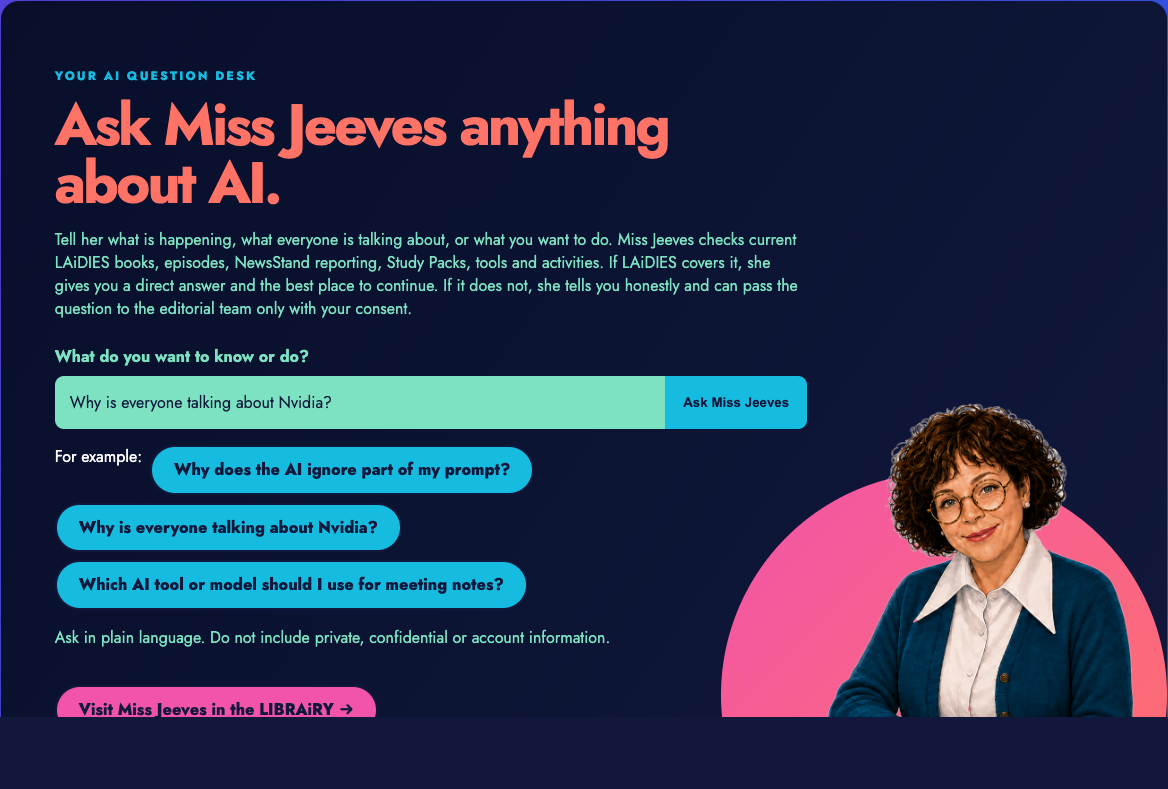
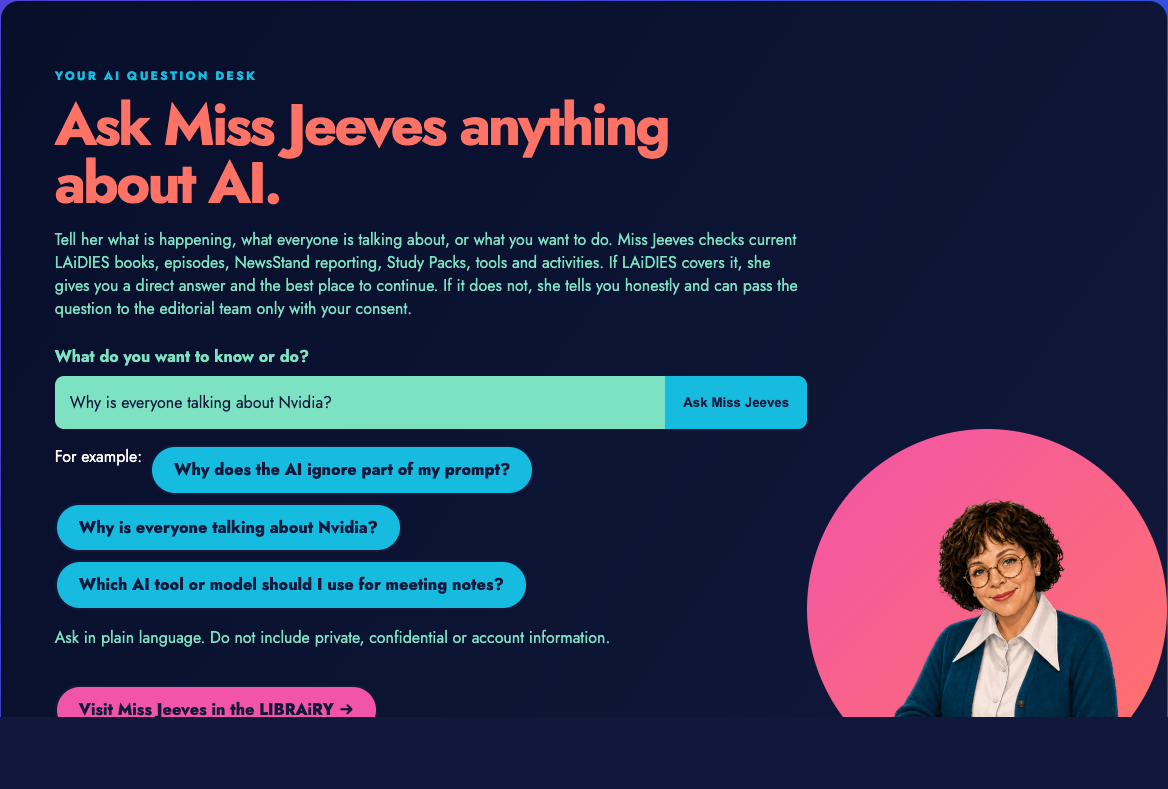
Refine and anchor Homepage Miss Jeeves cutout

Changed region(s): [[0.6164, 0.5171, 1.0, 0.9125]]

diff --git a/index.html b/index.html
@@ -840,11 +840,11 @@ main :is(.weekly,.activities,.town)>.section-heading>p:not(.eyebrow),.intent>div
 .postcard-band .eyebrow{color:var(--hp-orange)}
 .postcard-band h2{color:var(--hp-lime)}
 .reference.reference-inline{scroll-margin-top:88px;background:linear-gradient(125deg,var(--hp-midnight),var(--hp-ink))}
-.reference.reference-inline{position:relative;isolation:isolate}
-.reference.reference-inline::after{content:"";position:absolute;z-index:0;right:0;bottom:clamp(-150px,-9vw,-90px);width:clamp(330px,31vw,450px);aspect-ratio:1;border-radius:50%;background:linear-gradient(135deg,var(--hp-pink),var(--hp-coral));pointer-events:none}
+.reference.reference-inline{position:relative;isolation:isolate;overflow:visible}
+.reference.reference-inline::after{content:"";position:absolute;z-index:0;right:0;bottom:0;width:clamp(300px,27vw,360px);aspect-ratio:1;border-radius:50%;background:linear-gradient(135deg,var(--hp-pink),var(--hp-coral));pointer-events:none}
 .reference-inline>div{position:relative;z-index:2;padding-right:clamp(270px,25vw,360px)}
-.reference-inline>.jeeves-corner-cutout{position:absolute;z-index:1;display:block;right:clamp(8px,2vw,28px);bottom:0;width:clamp(220px,22vw,320px);height:auto;min-height:0;max-height:82%;object-fit:contain;object-position:right bottom;pointer-events:none;user-select:none}
-@media(max-width:760px){.reference-inline>div{padding-right:20px;padding-bottom:clamp(230px,76vw,330px)}.reference.reference-inline::after{right:0;bottom:-105px;width:clamp(280px,92vw,355px)}.reference-inline>.jeeves-corner-cutout{right:8px;width:clamp(190px,62vw,270px);height:auto;min-height:0;max-height:none}}
+.reference-inline>.jeeves-corner-cutout{position:absolute;z-index:1;display:block;right:clamp(8px,2vw,28px);bottom:-18px;width:clamp(190px,19vw,270px);height:auto;min-height:0;max-height:78%;object-fit:contain;object-position:right bottom;pointer-events:none;user-select:none}
+@media(max-width:760px){.reference-inline>div{padding-right:20px;padding-bottom:clamp(205px,66vw,280px)}.reference.reference-inline::after{right:0;bottom:0;width:clamp(250px,80vw,310px)}.reference-inline>.jeeves-corner-cutout{right:8px;bottom:-14px;width:clamp(165px,54vw,220px);height:auto;min-height:0;max-height:none}}
 .why-laidies{background:transparent;border-top:0}
 .why-women,.explainer,.intent,.weekly,.activities,.town,.closet,.postcard-band{position:relative;isolation:isolate}
 .why-women::before,.explainer::before,.intent::before,.weekly::before,.activities::before,.town::before,.closet::before,.postcard-band::before{content:"";position:absolute;inset:0;z-index:-1;pointer-events:none;border-radius:inherit;background:url('assets/homepage/pattern-purple-computing.png') top left/640px auto repeat;filter:grayscale(1) brightness(1.235) contrast(1.4);mix-blend-mode:multiply;opacity:.12}
@@ -1328,7 +1328,7 @@ main .explainer .method-intro-action:not(.inline-link):focus-visible{outline:3px
       </div>
       <section id="reference" class="reference reference-inline" aria-labelledby="jeeves-title">
         <div><p class="eyebrow">Your AI question desk</p><h2 id="jeeves-title">Ask Miss Jeeves anything about AI.</h2><p>Tell her what is happening, what everyone is talking about, or what you want to do. Miss Jeeves checks current LAiDIES books, episodes, NewsStand reporting, Study Packs, tools and activities. If LAiDIES covers it, she gives you a direct answer and the best place to continue. If it does not, she tells you honestly and can pass the question to the editorial team only with your consent.</p><form id="homepage-jeeves-form"><label for="lookup">What do you want to know or do?</label><div><input id="lookup" maxlength="240" autocomplete="off" placeholder="Why is everyone talking about Nvidia?"><button type="submit">Ask Miss Jeeves</button></div></form><div class="popular"><span>For example:</span><a href="/library.html#miss-jeeves?q=Why%20does%20the%20AI%20ignore%20part%20of%20my%20prompt%3F&amp;from=homepage">Why does the AI ignore part of my prompt?</a><a href="/library.html#miss-jeeves?q=Why%20is%20everyone%20talking%20about%20Nvidia%3F&amp;from=homepage">Why is everyone talking about Nvidia?</a><a href="/library.html#miss-jeeves?q=I%20want%20to%20turn%20meeting%20notes%20into%20a%20clear%20summary.%20Which%20AI%20tool%20or%20model%20should%20I%20use%3F&amp;from=homepage">Which AI tool or model should I use for meeting notes?</a></div><p class="question-routing-note">Ask in plain language. Do not include private, confidential or account information.</p><a class="library-entry" data-library-entry="reference" href="/library.html#miss-jeeves">Visit Miss Jeeves in the LIBRAiRY &rarr;</a></div>
-        <img class="jeeves-corner-cutout" loading="lazy" decoding="async" src="assets/homepage/characters/miss-jeeves-question-desk-cutout-v1.png" alt="" aria-hidden="true">
+        <img class="jeeves-corner-cutout" loading="lazy" decoding="async" src="assets/homepage/characters/miss-jeeves-question-desk-cutout-v2.png" alt="" aria-hidden="true">
       </section>
     </section>
 
